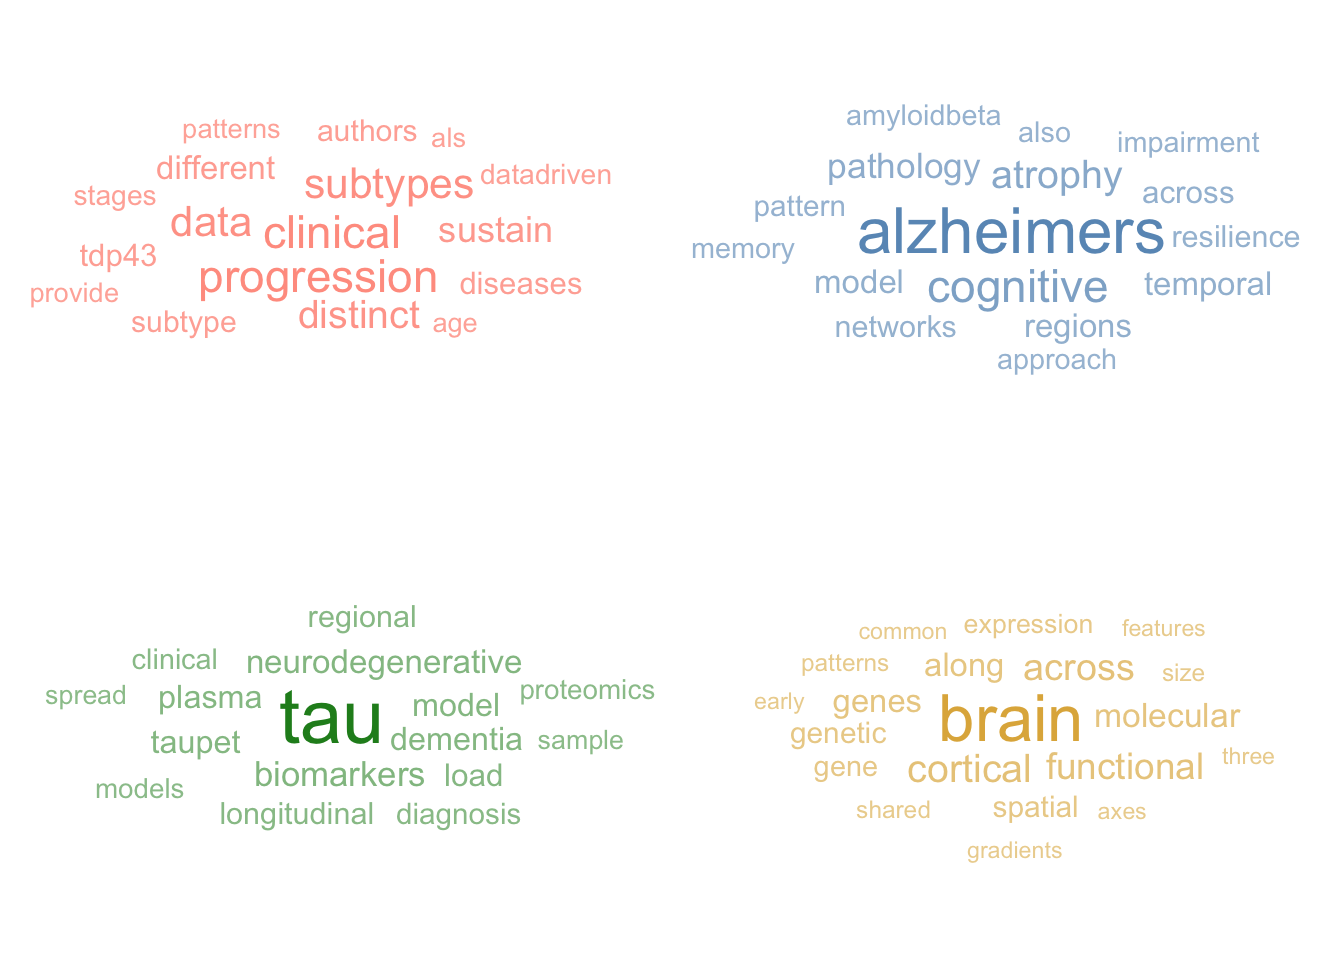
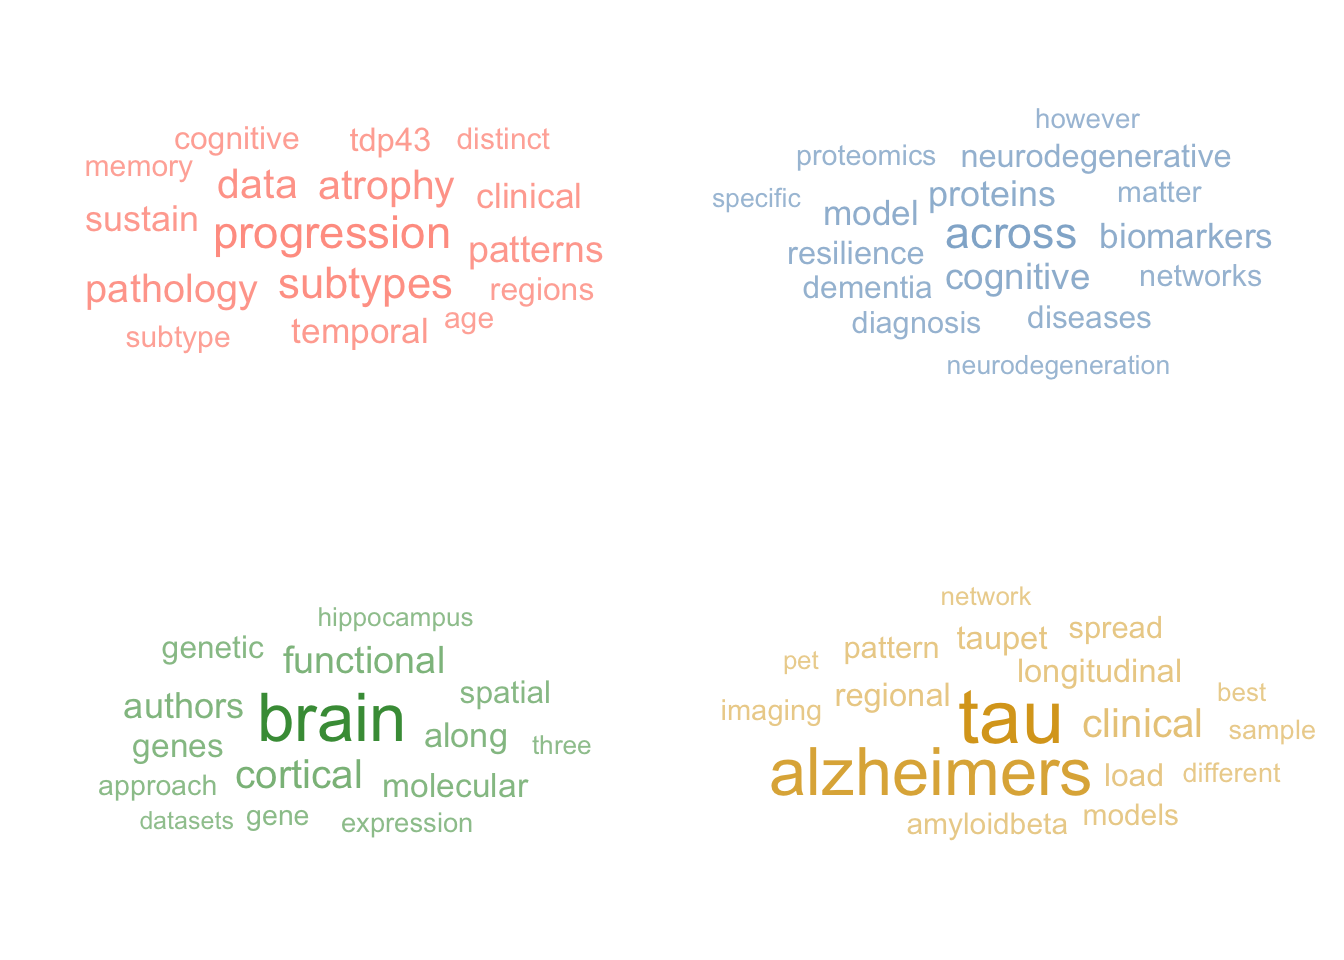
attempt i dont know how many to fix lines on member page

diff --git a/_site/members.html b/_site/members.html
@@ -488,7 +488,7 @@ window.Quarto = {
 <a href="./members/jake.html" class="no-external">Principal Investigator</a>
 </div>
 <div class="delink listing-description"><a href="./members/jake.html" class="no-external">
-Jake is the head of the DeMON Lab and the director of the Neurodegenerative Research Unit at the Department of Clinical Science Malmö at Lund University. As a SciLifeLab and…
+Jake is the head of the DeMON Lab and the director of the Neurodegenerative Research Unit at the Department of Clinical Science Malmö at Lund University. As a SciLifeLab and Wallenberg National Program Data-driven Life Sciences (DDLS) fellow, Jake is a proud member of SciLifeLab, and is also a member of Multi-Park Lund. Jake trained at UC-Berkeley, got his PhD at McGill University, and did a postdoc at the University of Pennsylvania, becoming an expert along the way in neuroimaging, aging, AI and bioinformatics. He now dedicates his time toward better understanding how neurodegenerative diseases work, and building innovative tools to improve clinical care.
 </a></div>
 </div>
 <div class="metadata">
@@ -518,7 +518,7 @@ Jake is the head of the DeMON Lab and the director of the Neurodegenerative Rese
 <a href="./members/xiaoyu.html" class="no-external">Postdoctoral researcher</a>
 </div>
 <div class="delink listing-description"><a href="./members/xiaoyu.html" class="no-external">
-XIAO Yu joined the lab in November 2023 as a postdoctoral researcher after earning her Ph.D.&nbsp;at Duke-NUS Medical School, National University of Singapore. Trained as a…
+XIAO Yu joined the lab in November 2023 as a postdoctoral researcher after earning her Ph.D.&nbsp;at Duke-NUS Medical School, National University of Singapore. Trained as a neuroimager, her research broadly centers on uncovering the mechanisms underlying Alzheimer’s disease and related dementias through computational modeling. Her work focuses on developing and adapting disease progression models to better understand pathological spread and atrophy accumulation in these disorders.
 </a></div>
 </div>
 <div class="metadata">
@@ -540,7 +540,7 @@ XIAO Yu joined the lab in November 2023 as a postdoctoral researcher after earni
 <a href="./members/lijun.html" class="no-external">Postdoctoral researcher</a>
 </div>
 <div class="delink listing-description"><a href="./members/lijun.html" class="no-external">
-Lijun grew up in China and earned his Ph.D.&nbsp;in Electrical and Computer Engineering from the National University of Singapore. He later joined Lund University, where he is…
+Lijun grew up in China and earned his Ph.D.&nbsp;in Electrical and Computer Engineering from the National University of Singapore. He later joined Lund University, where he is currently a postdoctoral researcher in the DeMON Lab..
 </a></div>
 </div>
 <div class="metadata">
@@ -562,7 +562,7 @@ Lijun grew up in China and earned his Ph.D.&nbsp;in Electrical and Computer Engi
 <a href="./members/lea.html" class="no-external">Postdoctoral researcher</a>
 </div>
 <div class="delink listing-description"><a href="./members/lea.html" class="no-external">
-I joined the DeMON Lab in 2025 as a postdoc researcher, after completing a PhD in the Neuropresage Team (Caen, France). My scientific curiosity has long revolved around the…
+I joined the DeMON Lab in 2025 as a postdoc researcher, after completing a PhD in the Neuropresage Team (Caen, France). My scientific curiosity has long revolved around the hippocampus and its resilience mechanisms, which led me to explore medial temporal lobe alterations in aging and Alzheimer’s disease through neuroimaging — falling for fMRI along the way.
 </a></div>
 </div>
 <div class="metadata">
@@ -584,7 +584,7 @@ I joined the DeMON Lab in 2025 as a postdoc researcher, after completing a PhD i
 <a href="./members/hannah.html" class="no-external">Postdoctoral researcher</a>
 </div>
 <div class="delink listing-description"><a href="./members/hannah.html" class="no-external">
-Hannah joined the lab in 2026 while wrapping up her PhD in clinical neuroscience at the German Center for Neurodegenerative Diseases (DZNE) in Magdeburg, Germany. During her…
+Hannah joined the lab in 2026 while wrapping up her PhD in clinical neuroscience at the German Center for Neurodegenerative Diseases (DZNE) in Magdeburg, Germany. During her MSc in psychology, she discovered her passion for neurodegenerative diseases and went on to focus her PhD on developing MRI-based tools to improve our understanding of these diseases and the clinical management of patients. In the DeMON lab, she will utilise large-scale multimodal neuroimaging datasets to investigate the mechanisms driving heterogeneity in Alzheimer’s disease. Outside the lab, Hannah is an avid road cyclist, a mediocre knitter, and considers hunting down cute cafes her unofficial part-time job.
 </a></div>
 </div>
 <div class="metadata">
@@ -622,10 +622,10 @@ Jonathan is a PhD student studying how brain connectivity changes across aging a
 </a>
 </div>
 </div>
-<div class="quarto-post image-left" data-index="1" data-listing-file-modified-sort="1778103983853" data-listing-reading-time-sort="1" data-listing-word-count-sort="66">
+<div class="quarto-post image-left" data-index="1" data-listing-file-modified-sort="1778104132151" data-listing-reading-time-sort="1" data-listing-word-count-sort="66">
 <div class="thumbnail"><a href="./members/gabri.html" class="no-external">
 
-<p class="card-img-top"><img loading='lazy' src="members/images/gabri.jpg"  class="thumbnail-image card-img"/></p>
+<p class="card-img-top"><img loading='lazy' src="members/images/gabi.png"  class="thumbnail-image card-img"/></p>
 
 </a></div>
 <div class="body">
@@ -658,7 +658,7 @@ Gabriele joined the lab in 2023 September after graduating with a degree in Mole
 <a href="./members/narjes.html" class="no-external">Phd Student</a>
 </div>
 <div class="delink listing-description"><a href="./members/narjes.html" class="no-external">
-I am a PhD student joining the DeMon Lab in 2026, with a background in biomedical engineering and machine learning. My research focuses on applying statistical and computational methods to neuroimaging data to study the heterogeneity of Alzheimer’s disease. My work is grounded in data-driven…
+I am a PhD student joining the DeMon Lab in 2026, with a background in biomedical engineering and machine learning. My research focuses on applying statistical and computational methods to neuroimaging data to study the heterogeneity of Alzheimer’s disease. My work is grounded in data-driven approaches in neuroscience, motivated by an interest in leveraging engineering methodologies to investigate complex brain-related conditions.
 </a></div>
 </div>
 <div class="metadata">
@@ -710,7 +710,7 @@ I started my PhD in 2023 and joined the lab halfway through, bringing a backgrou
 <a href="./members/ruoyi.html" class="no-external">Research Assistant</a>
 </div>
 <div class="delink listing-description"><a href="./members/ruoyi.html" class="no-external">
-Ruoyi graduated with a Master’s degree in Machine Learning from Lund University in September 2024 and joined the lab immediately after. She is currently focusing on…
+Ruoyi graduated with a Master’s degree in Machine Learning from Lund University in September 2024 and joined the lab immediately after. She is currently focusing on developing deep learning methods for the automated segmentation of medial temporal lobe (MTL) subregions in histological data to advance the understanding of neurodegenerative pathology. Driven by academic curiosity, she is interested in exploring how AI models can reveal the hidden structural patterns in either images or clinical data that may provide new insights into the progression of neurodegenerative disease.
 </a></div>
 </div>
 <div class="metadata">
@@ -732,7 +732,7 @@ Ruoyi graduated with a Master’s degree in Machine Learning from Lund Universit
 <a href="./members/gabriele.html" class="no-external">Research Assistant</a>
 </div>
 <div class="delink listing-description"><a href="./members/gabriele.html" class="no-external">
-Gabriele joined the lab in October 2024 as a research assistant after getting a master’s degree from the University of Trento, Italy. His work focuses primarily on curating…
+Gabriele joined the lab in October 2024 as a research assistant after getting a master’s degree from the University of Trento, Italy. His work focuses primarily on curating and processing multimodal MRI images from the ROSMAP dataset, a great resource for research on aging and neurodegenerative disease. He is particularly interested in brain connectivity, both structural and functional, and how network-based approaches can help unravel complex mechanisms underlying cognition and pathology.
 </a></div>
 </div>
 <div class="metadata">
@@ -754,7 +754,7 @@ Gabriele joined the lab in October 2024 as a research assistant after getting a 
 <a href="./members/romina.html" class="no-external">Research Assistant</a>
 </div>
 <div class="delink listing-description"><a href="./members/romina.html" class="no-external">
-Romina joined the lab in 2024 as a master’s student in Molecular Medicine, completing her degree project. With a background in Molecular Biology, she focused on proteomics…
+Romina joined the lab in 2024 as a master’s student in Molecular Medicine, completing her degree project. With a background in Molecular Biology, she focused on proteomics data and bioinformatics approaches to study how organ aging may contribute to neurodegenerative diseases. Her research combined molecular insights with computational methods to better understand systemic factors influencing brain health.
 </a></div>
 </div>
 <div class="metadata">

diff --git a/_site/members/gabri.html b/_site/members/gabri.html
@@ -306,7 +306,7 @@ ul.task-list li input[type="checkbox"] {
 
 <div class="quarto-about-trestles">
   <div class="about-entity">
-    <img src="images/gabri.jpg" class="about-image
+    <img src="images/gabi.png" class="about-image
   rounded " style="width: 20em;">
 <header id="title-block-header" class="quarto-title-block default">
 <div class="quarto-title">